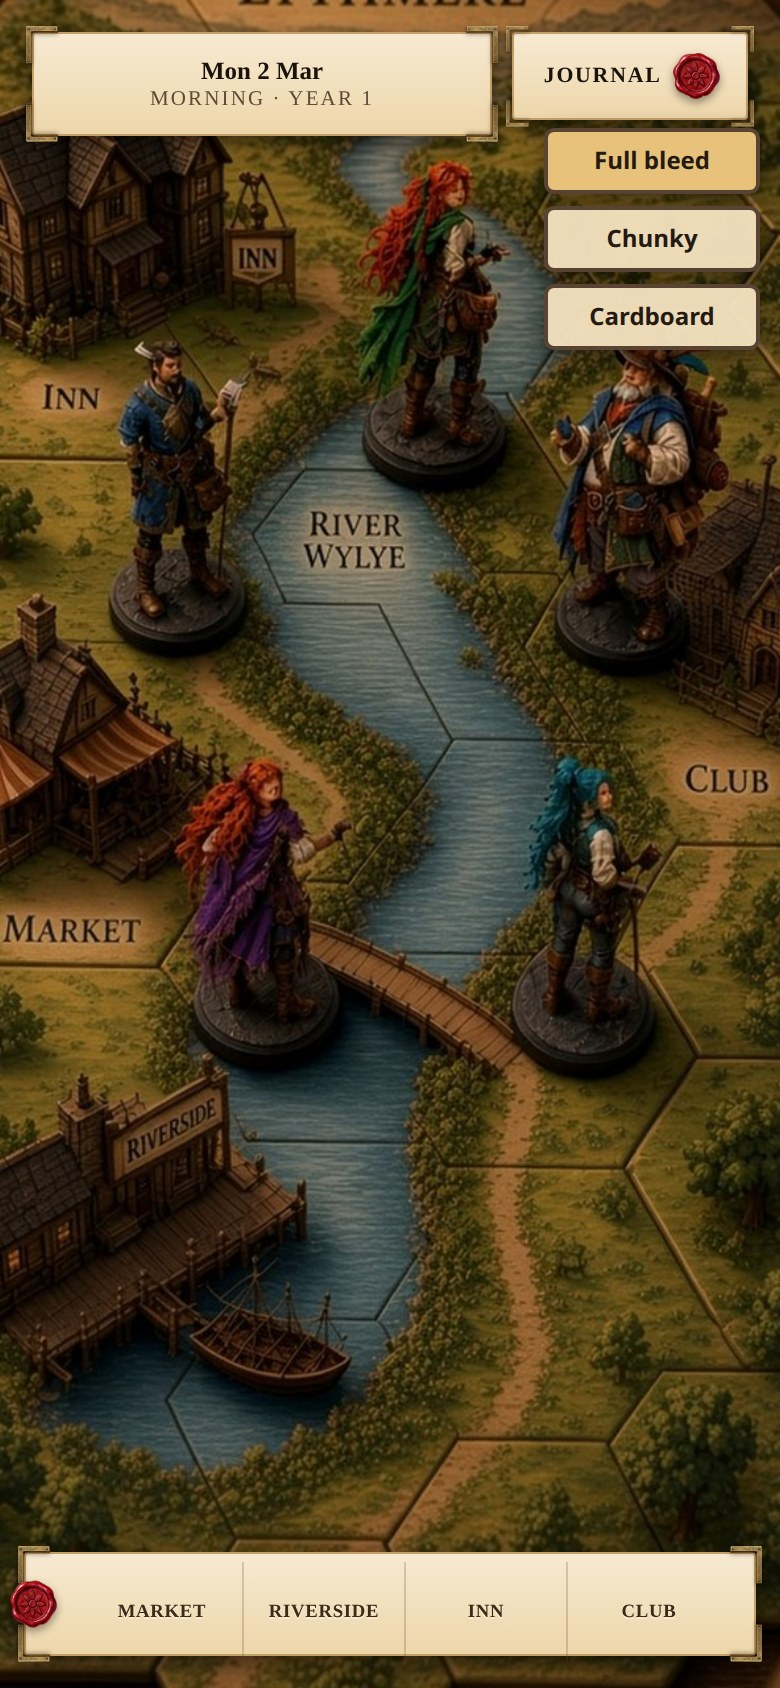
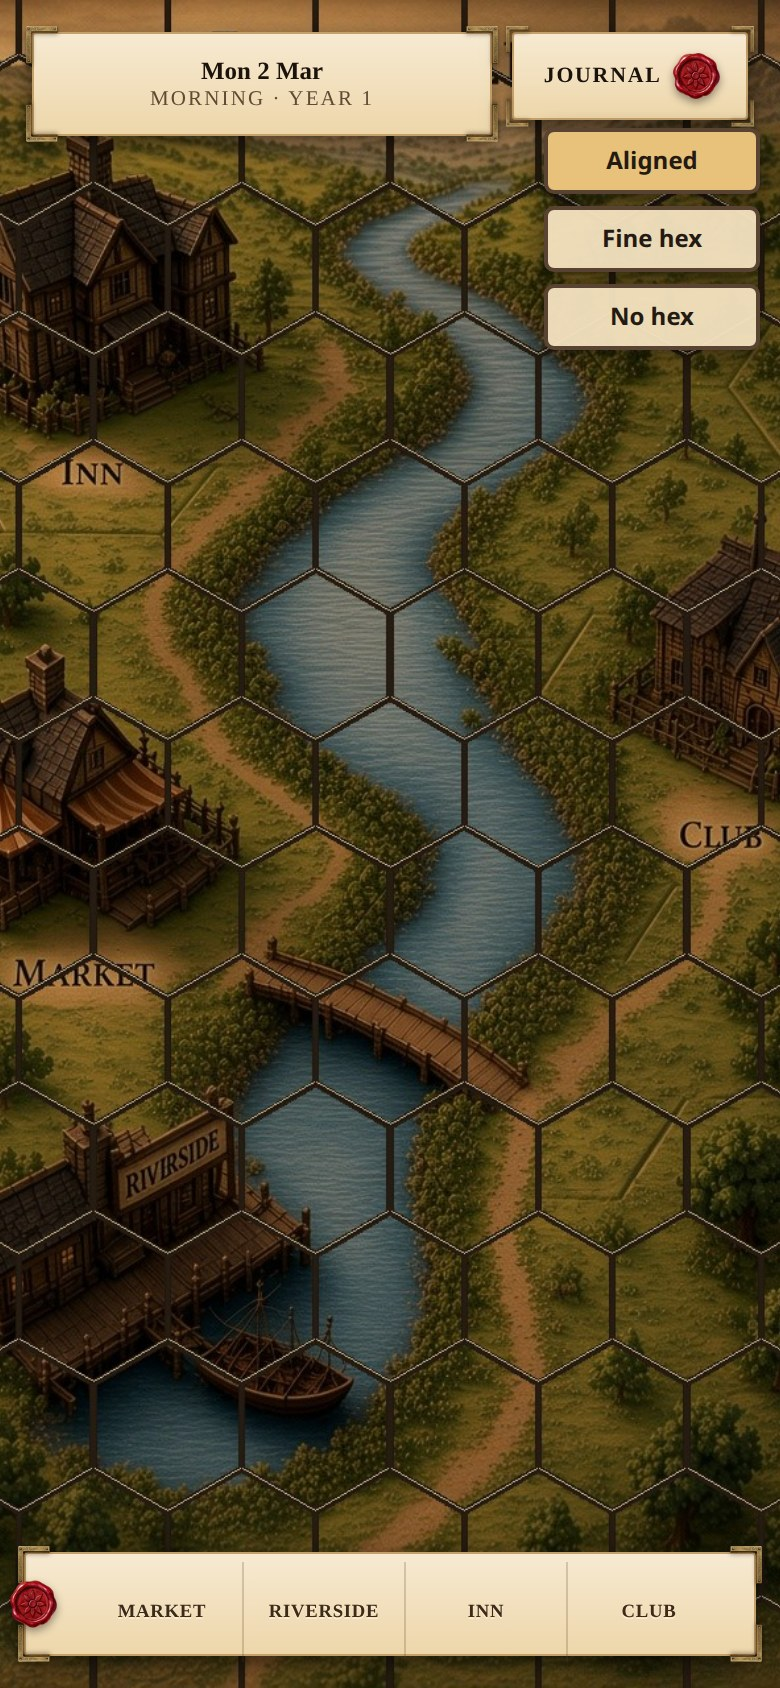
Clear NPCs off the hex overworld and align the tiles.
People stay at locations. Camera pulled back; hexes are a regular grid.

diff --git a/mockups/lythmere-hex-screen/index.html b/mockups/lythmere-hex-screen/index.html
@@ -33,7 +33,7 @@
   }
   .townScene{
     position:absolute;inset:0;z-index:0;
-    background:#2a241e url("./04-fullbleed-hex.jpg") center / cover no-repeat;
+    background:#2a241e url("./05-empty-aligned.jpg") center / cover no-repeat;
   }
   #hudLayer{position:absolute;inset:0;z-index:40;pointer-events:none}
   .worldTopbar{
@@ -132,9 +132,9 @@
     </nav>
   </div>
   <div id="paints">
-    <button type="button" data-file="./04-fullbleed-hex.jpg" aria-pressed="true">Full bleed</button>
-    <button type="button" data-file="./02-chunky-hex.jpg">Chunky</button>
-    <button type="button" data-file="./03-cardboard-hex.jpg">Cardboard</button>
+    <button type="button" data-file="./05-empty-aligned.jpg" aria-pressed="true">Aligned</button>
+    <button type="button" data-file="./05-empty-fine.jpg">Fine hex</button>
+    <button type="button" data-file="./05-empty-town.jpg">No hex</button>
   </div>
 </section>
 <script>
@@ -145,7 +145,7 @@ function paint(file){
   buttons.forEach(b => b.setAttribute("aria-pressed", b.dataset.file === file ? "true" : "false"));
 }
 buttons.forEach(b => b.addEventListener("click", () => paint(b.dataset.file)));
-paint("./04-fullbleed-hex.jpg");
+paint("./05-empty-aligned.jpg");
 </script>
 </body>
 </html>

diff --git a/mockups/lythmere-hex-screen/README.md b/mockups/lythmere-hex-screen/README.md
@@ -1,10 +1,5 @@
 # Full-screen hex Lythmere (look-test)
 
-Marc picked:
-- **People:** painted die-cast minis from table still 1 (round bases), not oak cutouts
-- **Town:** cartoon 3D diorama from still 2, but the **map is the whole screen** (no tavern room)
-- **Board:** hexagonal tiles
+Overworld is an empty hex board of Lythmere. NPCs live at locations, not on this map.
 
-Live `index.html` and oak standees are not changed yet. If this locks, that is a standee + town-display change.
-
-Open `index.html` (cream HUD overlay). Paints: Chunky / Cardboard / Full bleed.
+Open `index.html`. Paints: Aligned hexes / Fine hexes / No hex overlay.
